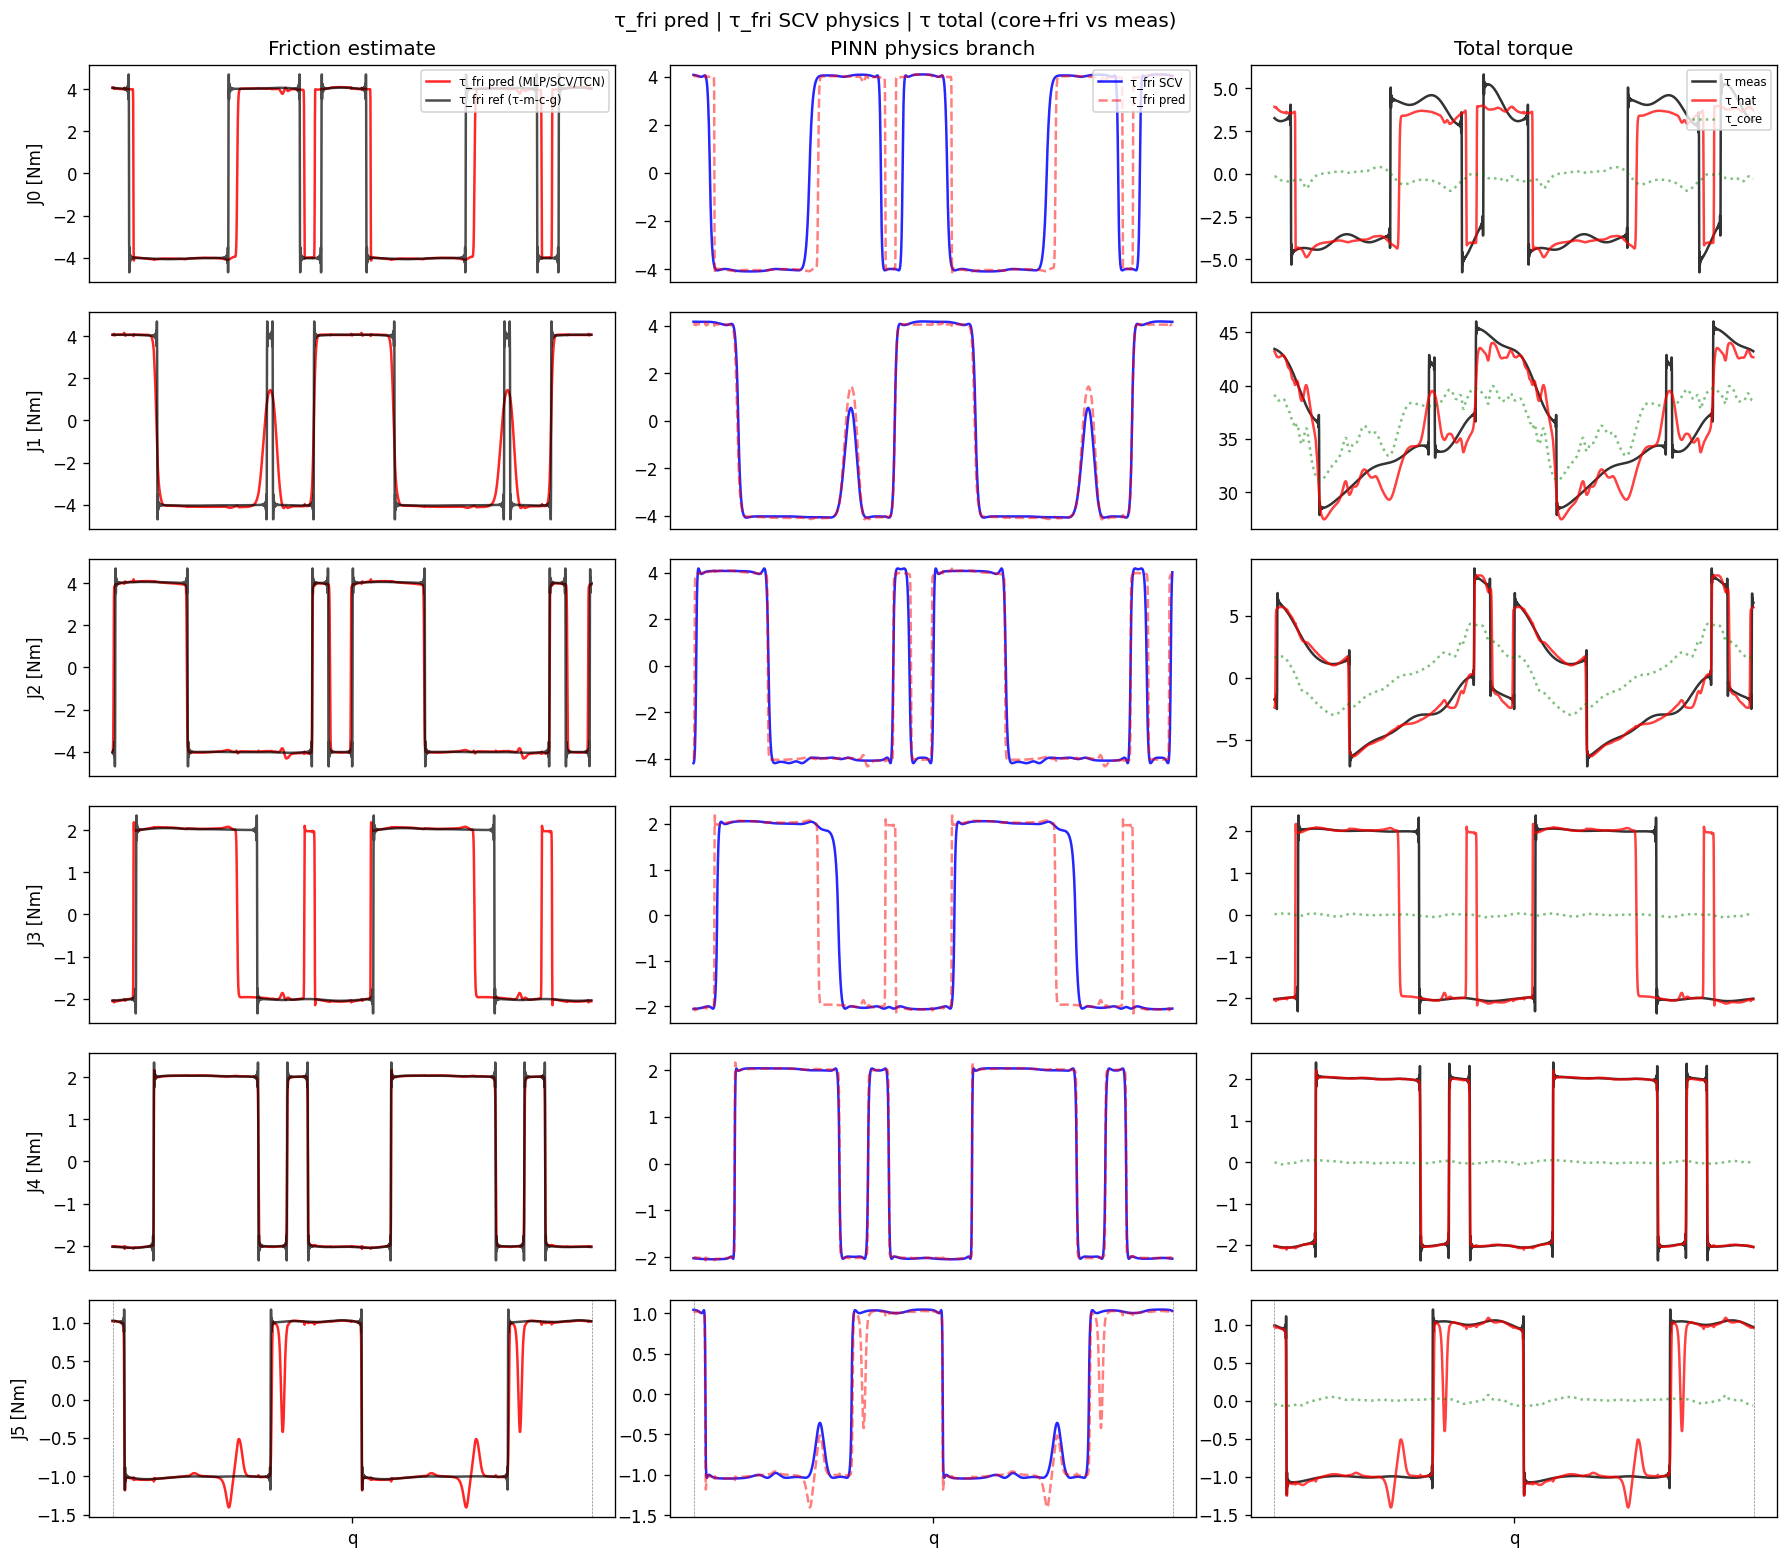
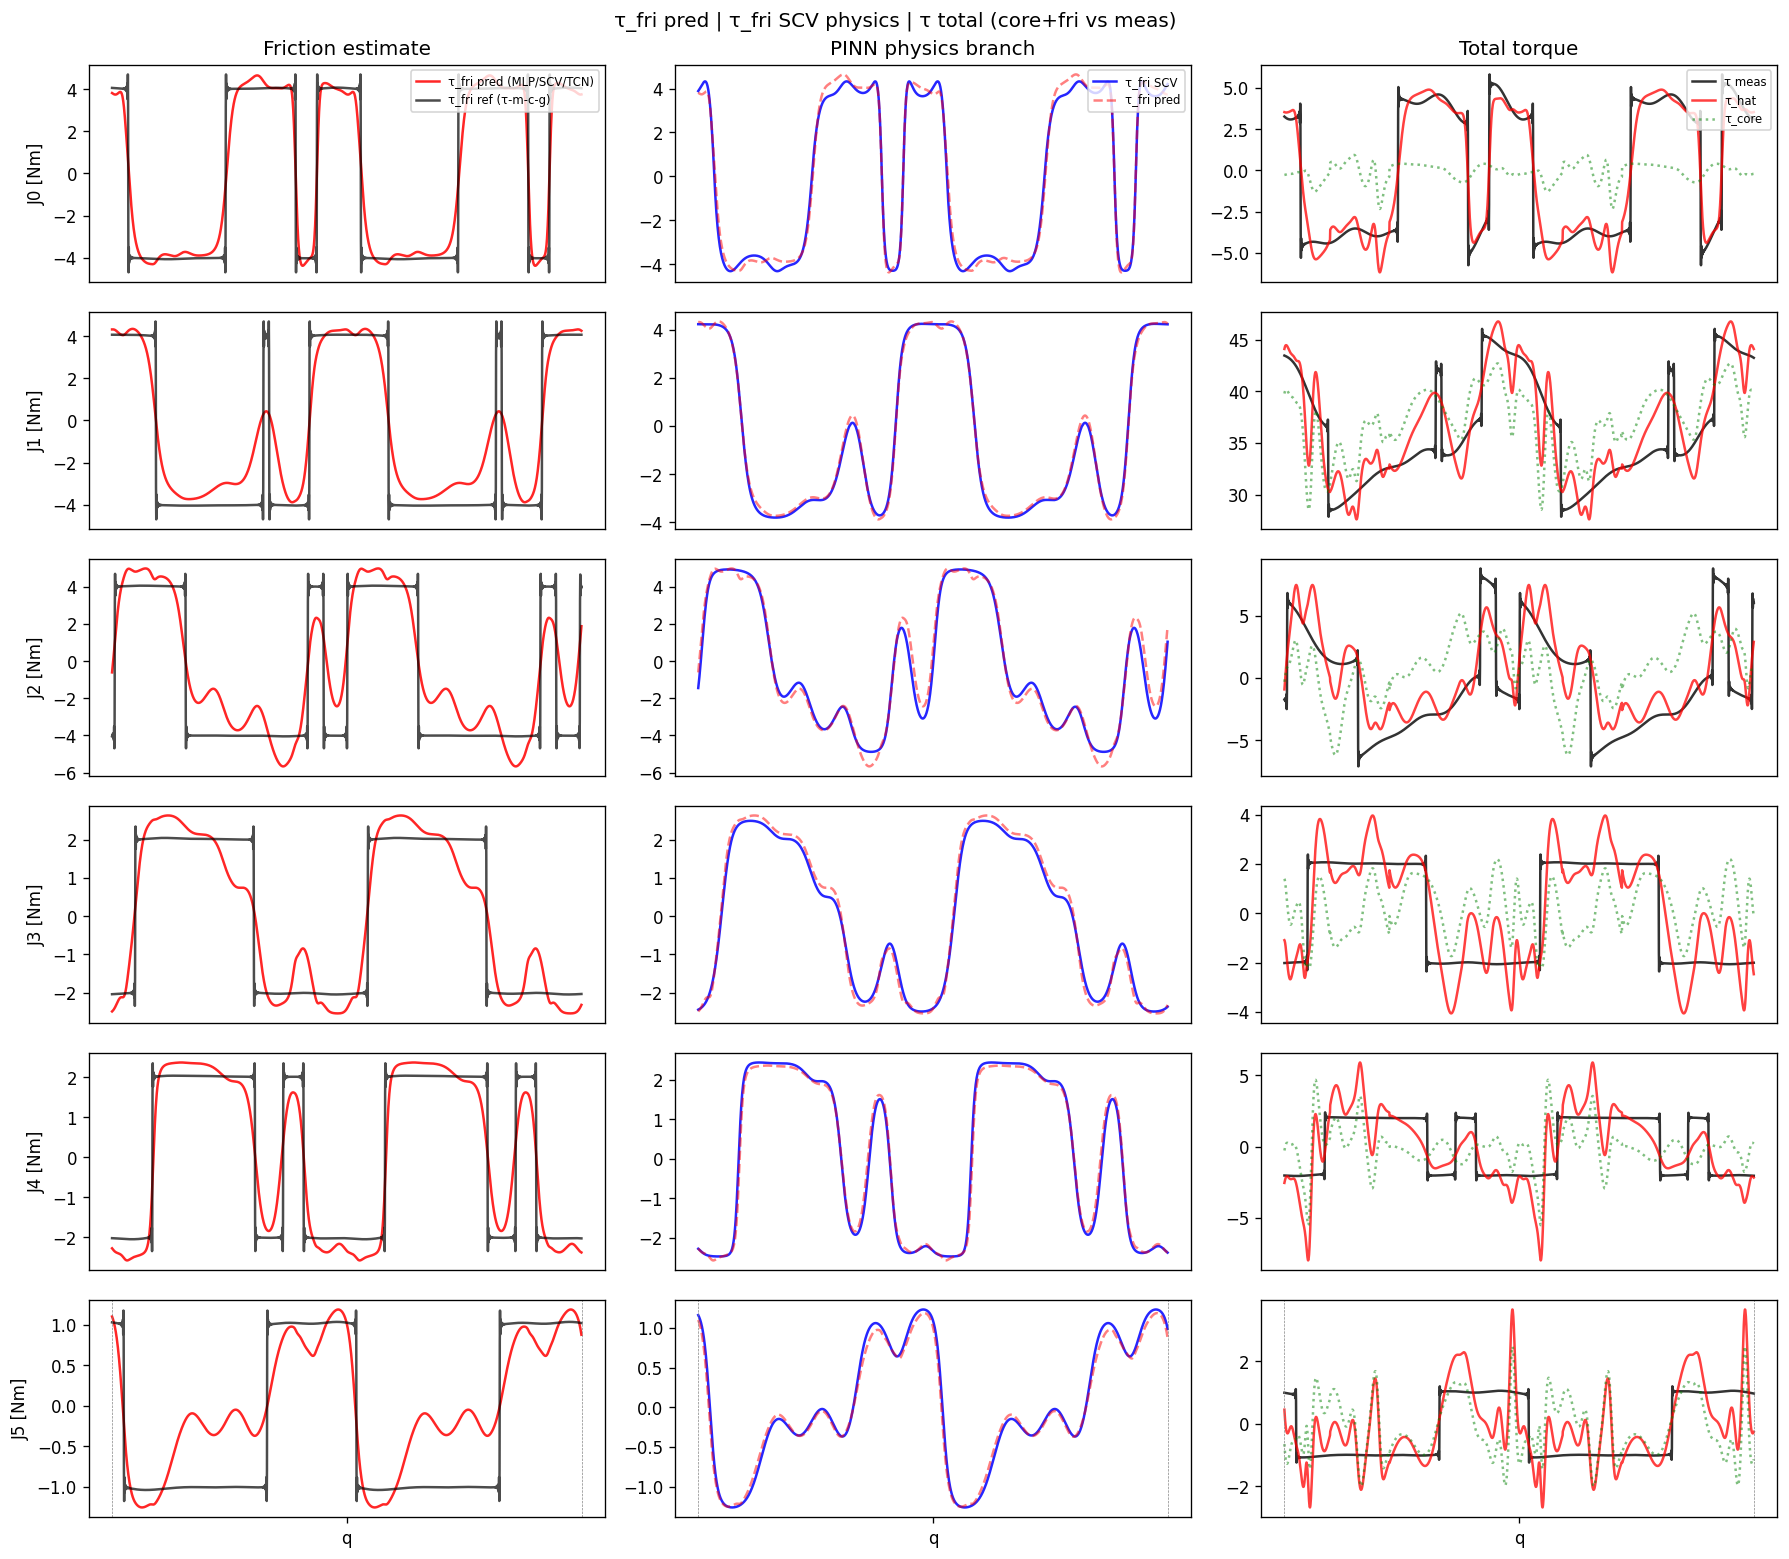
训练fo

diff --git a/examples/robot_evaluate.py b/examples/robot_evaluate.py
@@ -56,6 +56,20 @@ def _infer_fo_mlp_hidden_dim(state: dict, dof: int) -> int | None:
     return None
 
 
+def _infer_fo_tcn_layers(state: dict) -> int | None:
+    """从 fo_cascade TCN₁ 的 causal conv 层数推断 tcn_layers。"""
+    for prefix in ("hnet.fo.tcn_diff.net", "hnet.tcn_diff.net"):
+        conv_indices: list[int] = []
+        for k in state:
+            if k.startswith(prefix + ".") and k.endswith(".conv.weight"):
+                idx_s = k[len(prefix) + 1 :].split(".", 1)[0]
+                if idx_s.isdigit():
+                    conv_indices.append(int(idx_s))
+        if conv_indices:
+            return len(conv_indices)
+    return None
+
+
 def _infer_pinn_hidden(state: dict, dof: int) -> tuple[int, ...]:
     """从 checkpoint 的 Linear 层推断 MLP 隐层宽度（不含输出层 dof）。"""
     widths: list[int] = []
@@ -202,6 +216,13 @@ def load_mysteric_checkpoint(path: Path, device: torch.device) -> tuple[Mysteric
             inferred = _infer_fo_mlp_hidden_dim(state, dof)
             if inferred is not None:
                 kw["fo_mlp_hidden_dim"] = inferred
+        tcn_n = ckpt.get("fo_tcn_layers")
+        if tcn_n is not None:
+            kw["fo_tcn_layers"] = int(tcn_n)
+        else:
+            inferred_tcn = _infer_fo_tcn_layers(state)
+            if inferred_tcn is not None:
+                kw["fo_tcn_layers"] = inferred_tcn
     if "mass_diag_eps" in ckpt:
         eps = float(ckpt["mass_diag_eps"])
         kw["mass_diag_eps"] = eps

diff --git a/examples/robot_train.py b/examples/robot_train.py
@@ -113,6 +113,7 @@ def _checkpoint_payload(
         "smape_eps": args.smape_eps,
         "data_path": str(args.data.resolve()),
         "fo_mlp_hidden_dim": args.fo_mlp_hidden,
+        "fo_tcn_layers": args.fo_tcn_layers,
         "gms_n_blocks": args.gms_n_blocks,
         "gms_n_elements": args.gms_n_blocks,
         "gms_dt": getattr(args, "_gms_dt_resolved", args.gms_dt),
@@ -194,6 +195,14 @@ def _parse_args() -> argparse.Namespace:
         default=None,
         metavar="D",
         help="fo_cascade 两层 MLP 隐层宽度，默认 max(4*n_dof, 16)",
+    )
+    p.add_argument(
+        "--fo-tcn-layers",
+        type=int,
+        default=None,
+        metavar="N",
+        help="fo_cascade / fo_cascade_pinn 中 TCN₁ 与 TCN₂ 层数；"
+        "默认 fo_cascade=2、fo_cascade_pinn=3",
     )
     p.add_argument(
         "--gms-blocks",
@@ -559,6 +568,7 @@ def main() -> None:
             lnet_layers=l_d,
             friction_backend=args.friction_backend,
             fo_mlp_hidden_dim=args.fo_mlp_hidden,
+            fo_tcn_layers=args.fo_tcn_layers,
             gms_n_blocks=args.gms_n_blocks,
             gms_dt=gms_dt if args.friction_backend in ("gms", "gms_pinn") else 0.001,
         ).to(device)

diff --git a/RobotDynamics/FrictionModule/fo_cascade.py b/RobotDynamics/FrictionModule/fo_cascade.py
@@ -129,6 +129,7 @@ class HNetFOCascade(nn.Module):
         super().__init__()
         self.dof = dof
         self.seq_len = seq_len
+        self.tcn_layers = tcn_layers
         mlp_h = mlp_hidden if mlp_hidden is not None else max(4 * dof, 16)
         self.mlp_hidden = mlp_h
 
@@ -220,12 +221,13 @@ class HNetFOCascadePINN(nn.Module):
         hidden_channels: int = 8,
         kernel_size: int = 3,
         *,
-        tcn_layers: int = 2,
+        tcn_layers: int = 3,
         mlp_hidden: int | None = None,
     ) -> None:
         super().__init__()
         self.dof = dof
         self.seq_len = seq_len
+        self.tcn_layers = tcn_layers
         self.fo = HNetFOCascade(
             dof,
             seq_len=seq_len,

diff --git a/RobotDynamics/MystericNet/model.py b/RobotDynamics/MystericNet/model.py
@@ -57,6 +57,7 @@ class MystericNet(nn.Module):
         gms_n_elements: int = 3,
         gms_dt: float = 0.001,
         fo_mlp_hidden_dim: int | None = None,
+        fo_tcn_layers: int | None = None,
         lnet_zero_cg: bool = False,
     ) -> None:
         super().__init__()
@@ -83,6 +84,7 @@ class MystericNet(nn.Module):
                 seq_len=seq_len,
                 hidden_channels=hnet_channels,
                 kernel_size=hnet_kernel,
+                tcn_layers=fo_tcn_layers if fo_tcn_layers is not None else 2,
                 mlp_hidden=fo_mlp_hidden_dim,
             )
         elif friction_backend == "fo_cascade_pinn":
@@ -91,6 +93,7 @@ class MystericNet(nn.Module):
                 seq_len=seq_len,
                 hidden_channels=hnet_channels,
                 kernel_size=hnet_kernel,
+                tcn_layers=fo_tcn_layers if fo_tcn_layers is not None else 3,
                 mlp_hidden=fo_mlp_hidden_dim,
             )
         elif friction_backend == "stribeck":

diff --git a/tests/test_fo_cascade.py b/tests/test_fo_cascade.py
@@ -39,6 +39,7 @@ def test_build_stribeck_mlp_returns_two_layer() -> None:
 def test_fo_cascade_pinn_returns_physics() -> None:
     dof, L, B = 2, 30, 3
     net = HNetFOCascadePINN(dof=dof, seq_len=L)
+    assert net.tcn_layers == 3
     q_seq = torch.randn(B, L, dof)
     qd_seq = torch.randn(B, L, dof)
     tau_pred, tau_phys = net(q_seq, qd_seq)

diff --git a/README.md b/README.md
@@ -300,7 +300,7 @@ python examples/robot_train.py \
 |----------------------|------|
 | `tcn` | 时序卷积（原 Mysteric-Net 论文） |
 | `fo_cascade` | TCN₁([q,q̇])→**两层 tanh MLP**→TCN₂，对齐 Xun 图 4 简化版 |
-| `fo_cascade_pinn` | fo_cascade + SCV，`friction_pinn_loss`（Hu 等 PINN，$\lambda$=`--lambda-physics`） |
+| `fo_cascade_pinn` | fo_cascade + SCV，`friction_pinn_loss`（Hu 等 PINN，$\lambda$=`--lambda-physics`）；**TCN 默认 3 层**（`fo_cascade` 为 2 层） |
 | `stribeck` | 可学习 SCV 物理模型（**仅** $\dot q$，无 MLP/TCN）；见下文 **§3.2.1** |
 | `stribeck_pinn` | MLP + SCV 物理损失（Hu 等 PINN） |
 | `gms` | 可学习 **GMS** 物理模型（$N$ 并联 stick/slip + $\sigma_1 v$，对 `qd_seq` 窗内积分）；见 **§3.2.2** |
@@ -604,6 +604,7 @@ python examples/motor_identify_train.py \
 | `--lr` | `5e-4` | 阶段 1 学习率 |
 | `--seq-len` | `20` | 摩擦网络滑窗长度 |
 | `--fo-mlp-hidden` | 自动 | fo_cascade 两层 MLP 隐层宽度，默认 `max(4*n_dof, 16)` |
+| `--fo-tcn-layers` | 自动 | TCN₁/TCN₂ 层数；`fo_cascade`=2，`fo_cascade_pinn`=3 |
 | `--lnet-width` / `--lnet-depth` | `32` / `2` | L-Net 规模 |
 | `--lnet-mass-eps` | `1e-2` | $H$ 对角初值/数值脊 |
 | `--lambda-physics` | `0.5` | PINN 摩擦物理项权重 $\lambda$ |